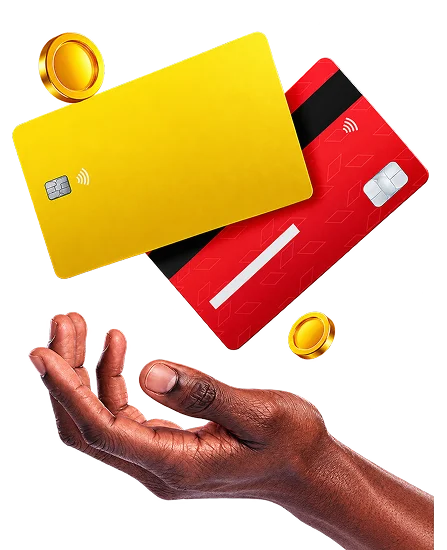
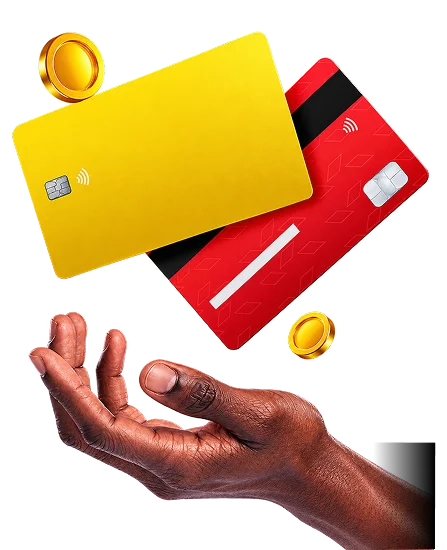
feat: implement contact form with EmailJS integration, add IT and Technical support page, and configure environment variables.

Changed region(s): [[0.8434, 0.8036, 0.9888, 1.0]]

diff --git a/ZYLOGENIX/src/pages/IT&TechnicalSupport.jsx b/ZYLOGENIX/src/pages/IT&TechnicalSupport.jsx
@@ -201,8 +201,8 @@ const ITTechnicalSupport = () => {
             flex: { xs: '1 1 100%', sm: '1 1 50%', lg: '0 0 430px' }, 
             width: { xs: '100%', sm: '50%', lg: '430px' }, 
             height: { xs: 'auto', sm: 'auto', lg: '585px' },
-            ml: { xs: '0px', lg: '128px' },
-            mt: { xs: '-60px',sm:'44px', lg: '54px' },
+            ml: { xs: '90px', lg: '128px' },
+            mt: { xs: '-60px',sm:'44px',md:'59px', lg: '54px' },
             mb:{xs:'-62px',sm:'-110px'}
           }}
            textContainerSx={{ pl: { xs: '20px',sm: '20px',md:'60px', lg: '180px' } }}
@@ -217,7 +217,7 @@ const ITTechnicalSupport = () => {
             maxWidth: { lg: '486px' }
           }}
           
-          imageSx={{ transform: { xs: 'scale(0.75)',sm: 'scale(0.8)', md: 'scale(0.75)', lg: 'scale(1)' },mt:{xs:'10px',sm:'10px',md:'-20px',lg:'50px'} }}
+          imageSx={{ transform: { xs: 'scale(0.75)',sm: 'scale(0.8)', md: 'scale(0.75)', lg: 'scale(1)' },mt:{xs:'10px',sm:'30px',md:'-20px',lg:'50px'} }}
         />
 
         {/* Card 4 */}

diff --git a/ZYLOGENIX/src/pages/Contact.jsx b/ZYLOGENIX/src/pages/Contact.jsx
@@ -63,9 +63,11 @@ const Contact = () => {
       );
       setStatus({ type: 'success', message: 'Message sent successfully! We will get back to you soon.' });
       setFormData({ firstName: '', lastName: '', email: '', phone: '', message: '' });
+      setTimeout(() => setStatus({ type: '', message: '' }), 5000);
     } catch (error) {
       console.error('EmailJS Error:', error);
       setStatus({ type: 'error', message: 'Failed to send message. Please ensure EmailJS credentials are configured.' });
+      setTimeout(() => setStatus({ type: '', message: '' }), 5000);
     }
   };
 
